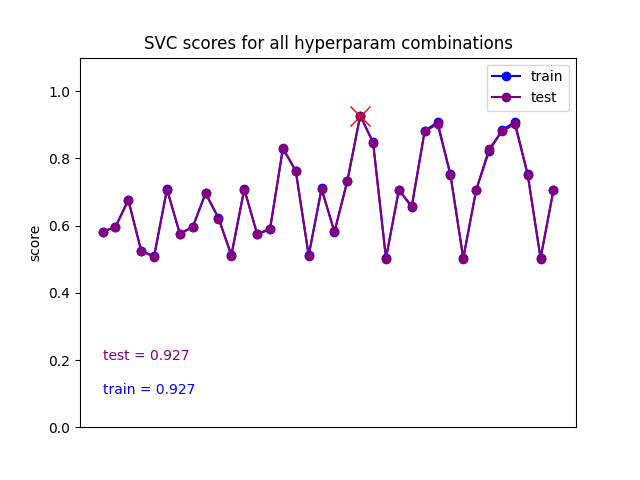
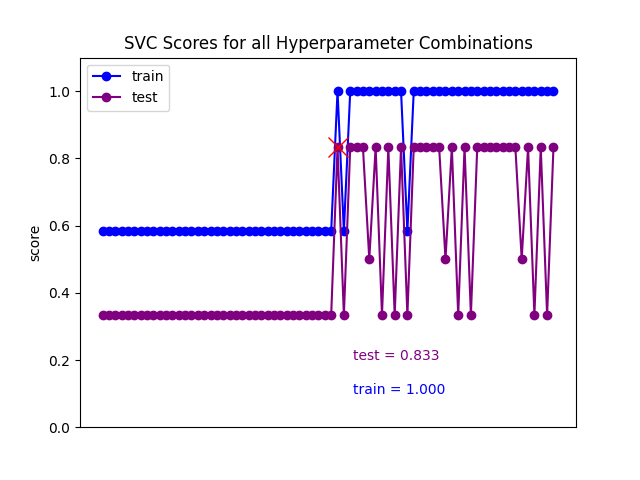
finalize remaining supervised models

diff --git a/model/naive_bayesian_classifier.py b/model/naive_bayesian_classifier.py
@@ -1,5 +1,7 @@
 import pandas as pd
+import numpy as np
 import sklearn
+from sklearn.metrics import accuracy_score
 from sklearn.naive_bayes import MultinomialNB
 
 import sys
@@ -7,39 +9,67 @@ sys.path.insert(1, '../')
 
 import tools as tools
 
-def naive_bayesian_train(X,y):
-    model = MultinomialNB()
+def naive_bayesian_train(X,y,a,f):
+    print("Fitting data to NaiveBayes Classifier, this may take a while...")
+    model = MultinomialNB(alpha=a, fit_prior=f)
     model.fit(X, y)
     return model
 
 def naive_bayesian_predict(model, X):
     return model.predict(X)
 
-def display_result(model, X_train):
-    #Storing the number of times each token occurs in a True article
-    true_token_count = model.feature_count_[0, :]
+def naive_bayes_hyperparam_search(X, y, A, F):
+    estimators = []
+    highest_accuracy = 0
+    best_estimator = None
+    best_hyperparams = ()
+    # find the best accuracy from the selection of hyperparams
+    for a in A:
+        for f in F:
+            estimator = naive_bayesian_train(X,y,a,f)
+            estimators.append(estimator)
+            y_pred = naive_bayesian_predict(estimator,X)
 
-    #Storing the number of times each token appears in a Fake article
-    fake_token_count = model.feature_count_[1, :]
+            # calculate the accuracy
+            acc = accuracy_score(y,y_pred)*100
+            print("{:.1f}% training accuracy for alpha={:.3f} fit_prior={}".format(acc,a,f))
 
-    #create a dataframe out of the new data
-    tokens = pd.DataFrame({'token':X_train.columns, 'true':true_token_count, 'fake':fake_token_count}).set_index('token')
-    tokens['true'] = tokens.true + 1 #avoid division by 0 when doing frequency calculations
-    tokens['fake'] = tokens.fake + 1
-    tokens['true'] = tokens.true / model.class_count_[0]
-    tokens['fake'] = tokens.fake / model.class_count_[1]
+            if acc > highest_accuracy:
+                highest_accuracy = acc
+                best_estimator = estimator
+                best_hyperparams = {"alpha": a, "fit_prior": f}
 
-    tokens['fake/true ratio'] = tokens.fake / tokens.true
-    tokens.sort_values('fake/true ratio', ascending=False).head(10)
+    return estimators, highest_accuracy, best_estimator, best_hyperparams
 
 def test_run(X_train, X_test, y_train, y_test):
     print("\nTesting Naive Bayesian Classifier ...\n")
-
-    model = naive_bayesian_train(X_train, y_train)
-    y_pred = naive_bayesian_predict(model, X_test)
     
-    tools.plot_predicted_labels(y_test, y_pred, "NaiveBayes", True)
+    # set the hyperparams
+    A = np.linspace(0.05,1,12)
+    F = [True, False]
 
+    # perform hyperparam search
+    estimators, accuracy, best_estimator, hyperparams = naive_bayes_hyperparam_search(X_train, y_train, A,F)
+
+    # calculate the training and testing scores and plot the result
+    trn_scores, test_scores = tools.calculate_estimator_scores([X_train, X_test, y_train, y_test], estimators)
+
+    # calculate model overfitting
+    overfitting = tools.determine_overfitting(trn_scores,test_scores)
+    print("\nNaive Bayes overfitting: {:.3f}\n".format(overfitting))
+    
+    # plot the scores of each estimator
+    tools.plot_estimator_scores("NaiveBayes",trn_scores,test_scores,True)
+    
+    # display details of best estimator
+    tools.display_best_estimator(accuracy, "NaiveBayes", hyperparams)
+
+    # use best estimator to make predictions
+    y_pred = naive_bayesian_predict(best_estimator, X_test)
+
+    tools.plot_predicted_labels(y_test, y_pred, "NaiveBayes", True)
     tools.display_prediction_scores(y_test,y_pred)
     tools.write_metrics_to_file(y_test,y_pred,"NaiveBayes")
     tools.plot_confusion_matrix(y_test,y_pred,"NaiveBayes", True)
+
+    tools.display_result(best_estimator, X_train)

diff --git a/model/support_vector_machine.py b/model/support_vector_machine.py
@@ -7,9 +7,9 @@ sys.path.insert(1, '../')
 
 import tools as tools
 
-def support_vector_machine_train(X,y,c,g):
+def support_vector_machine_train(X,y,c,g,k):
     print("Fitting data to SVC, this may take a while...")
-    svc = SVC(kernel='rbf', C=c, gamma=g, max_iter=100, random_state=0)
+    svc = SVC(kernel=k, C=c, gamma=g, max_iter=100, random_state=0)
     svc.fit(X, y)
     return svc
 
@@ -17,7 +17,7 @@ def support_vector_machine_predict(svc, X):
     return svc.predict(X)
 
 #  performs hyperparam search on SVC estimators, returns the best result
-def svc_hyperparam_search(X, y, C, G):
+def svc_hyperparam_search(X, y, C, G, K):
     estimators = []
     highest_accuracy = 0
     best_estimator = None
@@ -25,18 +25,19 @@ def svc_hyperparam_search(X, y, C, G):
     # find the best accuracy from the selection of hyperparams
     for c in C:
         for g in G:
-            svc = support_vector_machine_train(X,y,c,g)
-            estimators.append(svc)
-            y_pred = support_vector_machine_predict(svc,X)
+            for k in K:
+                svc = support_vector_machine_train(X,y,c,g,k)
+                estimators.append(svc)
+                y_pred = support_vector_machine_predict(svc,X)
 
-            # calculate the accuracy
-            a = accuracy_score(y,y_pred)*100
-            print("{:.1f}% training accuracy for C={:.3f} gamma={:.3f}".format(a, c, g))
+                # calculate the accuracy
+                a = accuracy_score(y,y_pred)*100
+                print("{:.1f}% training accuracy for C={:.3f} gamma={:.3f} kernel={}".format(a,c,g,k))
 
-            if a > highest_accuracy:
-                highest_accuracy = a
-                best_estimator = svc
-                best_hyperparams = {"c": c, "gamma": g}
+                if a > highest_accuracy:
+                    highest_accuracy = a
+                    best_estimator = svc
+                    best_hyperparams = {"c": c, "gamma": g}
 
     return estimators, highest_accuracy, best_estimator, best_hyperparams
 
@@ -46,9 +47,10 @@ def test_run(X_train, X_test, y_train, y_test):
     # set the hyperparams
     C = np.logspace(-4,4,6)
     G = np.logspace(-4,4,6)
+    K = ["rbf", "linear"]
 
     # perform hyperparam search
-    estimators, accuracy, best_estimator, hyperparams = svc_hyperparam_search(X_train, y_train, C, G)
+    estimators, accuracy, best_estimator, hyperparams = svc_hyperparam_search(X_train, y_train, C, G, K)
 
     # calculate the training and testing scores and plot the result
     trn_scores, test_scores = tools.calculate_estimator_scores([X_train, X_test, y_train, y_test], estimators)

diff --git a/model/random_forest.py b/model/random_forest.py
@@ -53,7 +53,7 @@ def test_run(X_train, X_test, y_train, y_test):
 
     # set the hyperparams
     D = np.linspace(1,1000,20)
-    N = np.linspace(100,2000,100)
+    N = np.linspace(1,10,1, dtype="int32")
 
     # perform hyperparam search
     estimators, accuracy, best_estimator, hyperparams = random_forest_hyperparam_search(X_train, y_train, D, N)
@@ -63,19 +63,19 @@ def test_run(X_train, X_test, y_train, y_test):
 
     # calculate model overfitting
     overfitting = tools.determine_overfitting(trn_scores,test_scores)
-    print("\nDecision Tree overfitting: {:.3f}\n".format(overfitting))
+    print("\nRandom Forest overfitting: {:.3f}\n".format(overfitting))
     
     # plot the scores of each estimator
-    tools.plot_estimator_scores("DecisionTree",trn_scores,test_scores,True)
+    tools.plot_estimator_scores("RandomForest",trn_scores,test_scores,True)
     
     # display details of best estimator
-    tools.display_best_estimator(accuracy, "DecisionTree", hyperparams)
+    tools.display_best_estimator(accuracy, "RandomForest", hyperparams)
 
     # use best estimator to make predictions
     y_pred = random_forest_predict(best_estimator, X_test)
 
-    tools.plot_predicted_labels(y_test, y_pred, "DecisionTree", True)
+    tools.plot_predicted_labels(y_test, y_pred, "RandomForest", True)
     tools.display_prediction_scores(y_test,y_pred)
-    tools.write_metrics_to_file(y_test,y_pred,"DecisionTree")
-    tools.plot_confusion_matrix(y_test,y_pred,"DecisionTree", True)
+    tools.write_metrics_to_file(y_test,y_pred,"RandomForest")
+    tools.plot_confusion_matrix(y_test,y_pred,"RandomForest", True)
 

diff --git a/tools.py b/tools.py
@@ -189,3 +189,20 @@ def plot_estimator_scores(name,trn_scores,test_scores,savefig=False):
         file_name = '{}{}/scores_plot.png'.format(RESULTS_DIR,name)
         print("Saving estimator scores for {} Classifier to file {}...".format(name, file_name))
         plt.savefig(file_name)
+
+def display_result(model, X_train):
+    #Storing the number of times each token occurs in a True article
+    true_token_count = model.feature_count_[0, :]
+
+    #Storing the number of times each token appears in a Fake article
+    fake_token_count = model.feature_count_[1, :]
+
+    #create a dataframe out of the new data
+    tokens = pd.DataFrame({'token':X_train.columns, 'REAL':true_token_count, 'FAKE':fake_token_count}).set_index('token')
+    tokens['REAL'] = tokens.REAL + 1 #avoid division by 0 when doing frequency calculations
+    tokens['FAKE'] = tokens.FAKE + 1
+    tokens['REAL'] = tokens.REAL / model.class_count_[0]
+    tokens['FAKE'] = tokens.FAKE / model.class_count_[1]
+
+    tokens['fake/real ratio'] = tokens.FAKE / tokens.REAL
+    tokens.sort_values('fake/real ratio', ascending=False).head(10)

diff --git a/model/logistic_regression.py b/model/logistic_regression.py
@@ -8,6 +8,7 @@ sys.path.insert(1, '../')
 import tools as tools
 
 def logistic_regression_train(X, y, c):
+    print("Fitting data to LogisticRegression Classifier, this may take a while...")
     model = sklearn.linear_model.LogisticRegression(random_state=0, max_iter=100, C=c)
     model.fit(X,y)
     return model

diff --git a/model/decision_tree.py b/model/decision_tree.py
@@ -9,6 +9,7 @@ sys.path.insert(1, '../')
 import tools as tools
 
 def decision_tree_train(X, y, d):
+    print("Fitting data to DecisionTree, this may take a while...")
     model = sklearn.tree.DecisionTreeClassifier(max_depth=d,random_state=0)
     model.fit(X,y)
     return model
